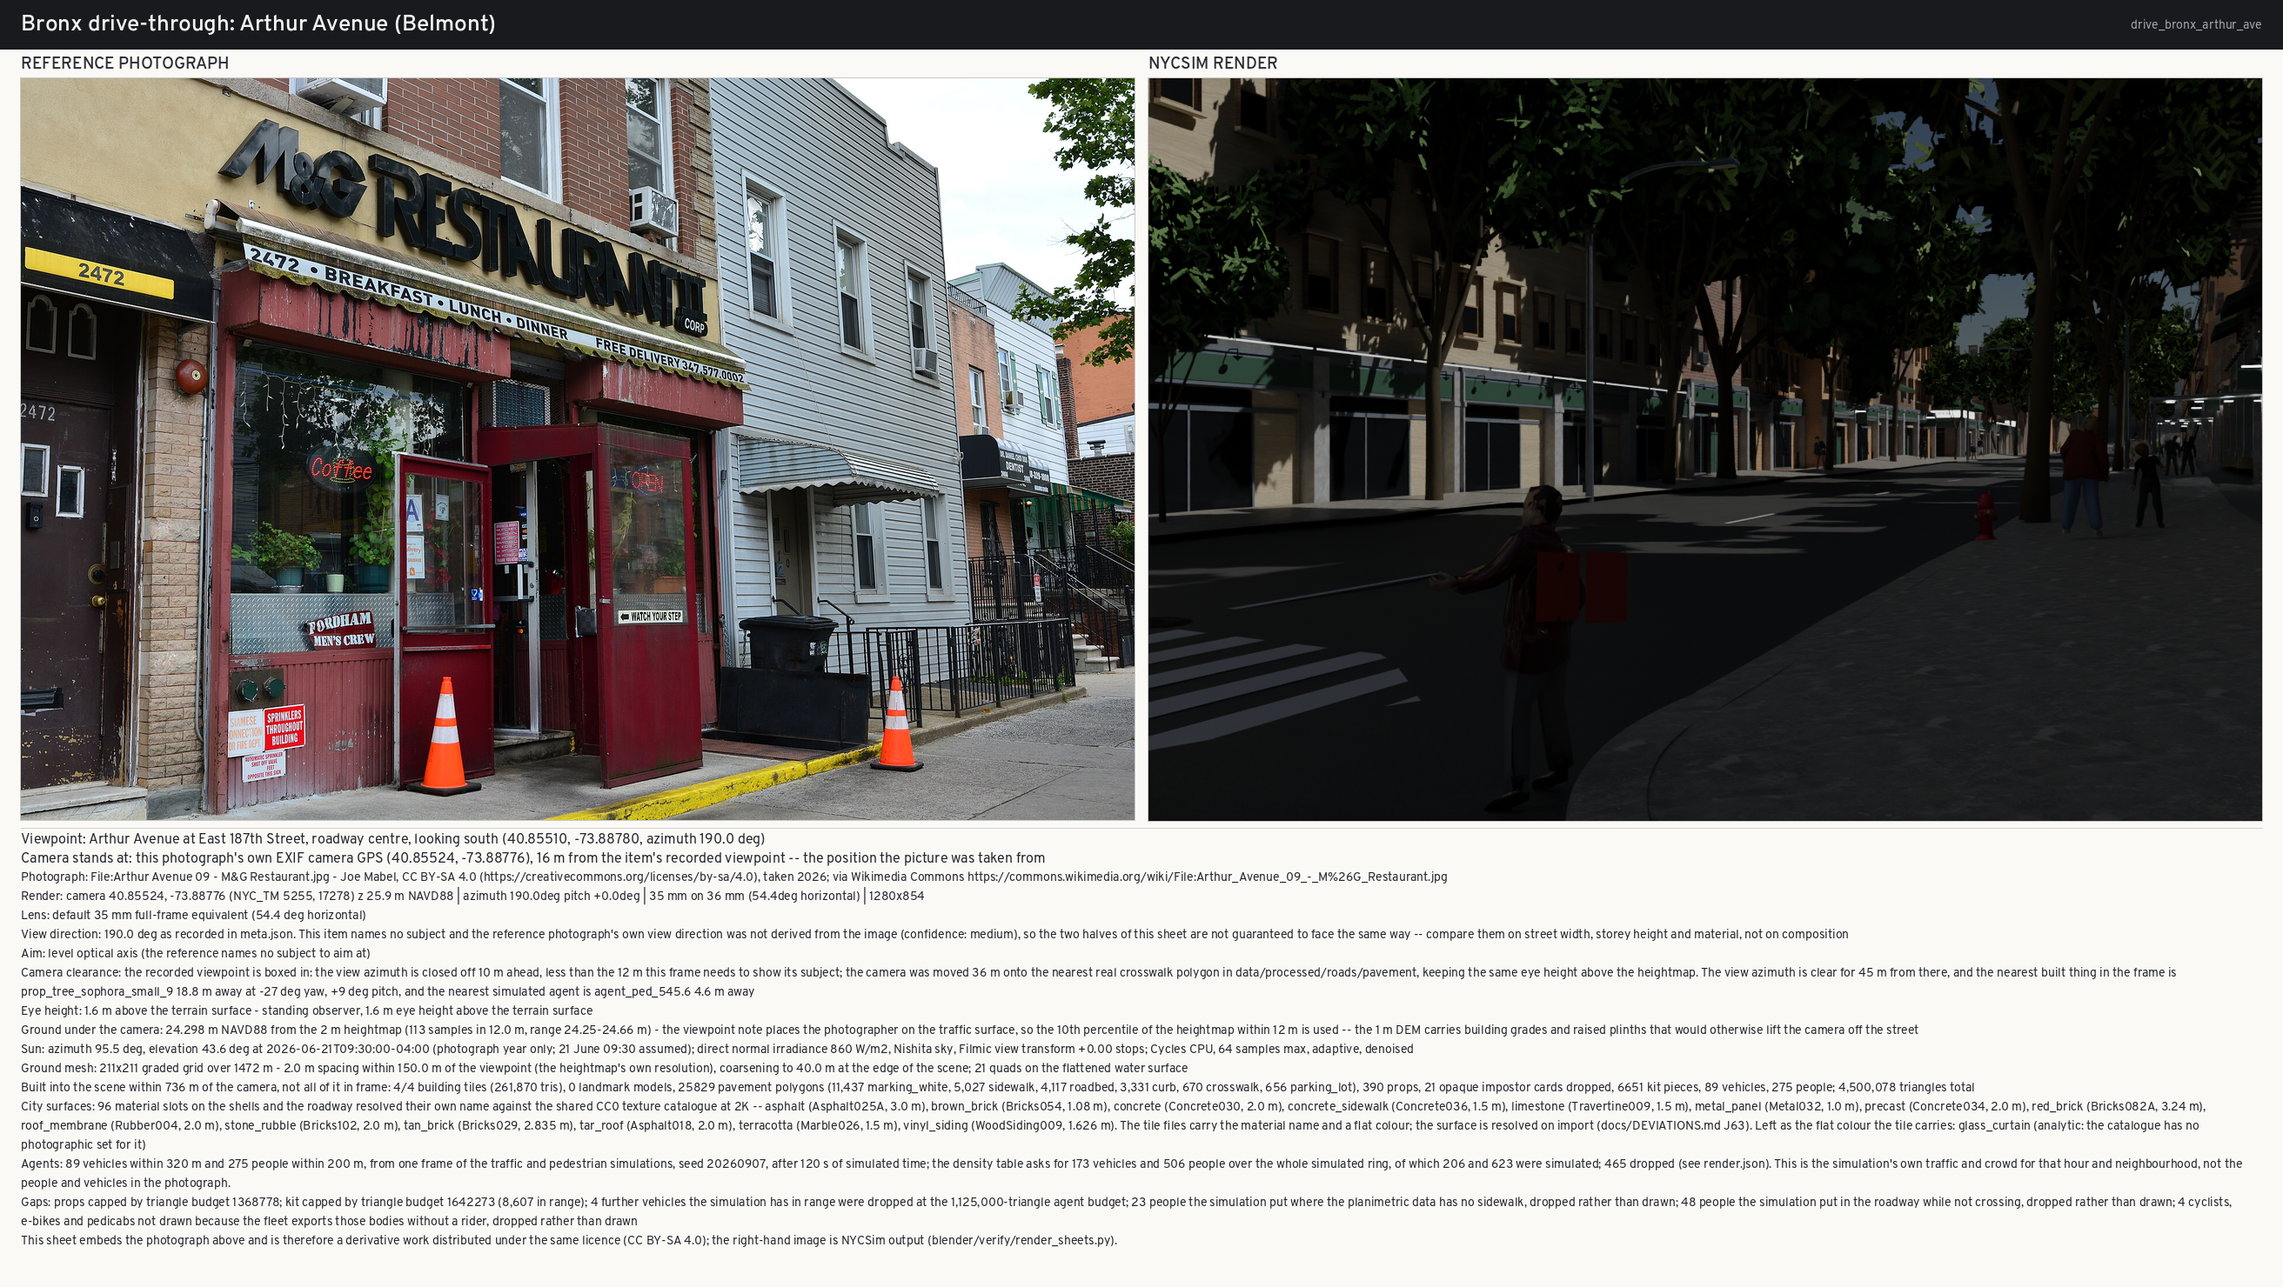
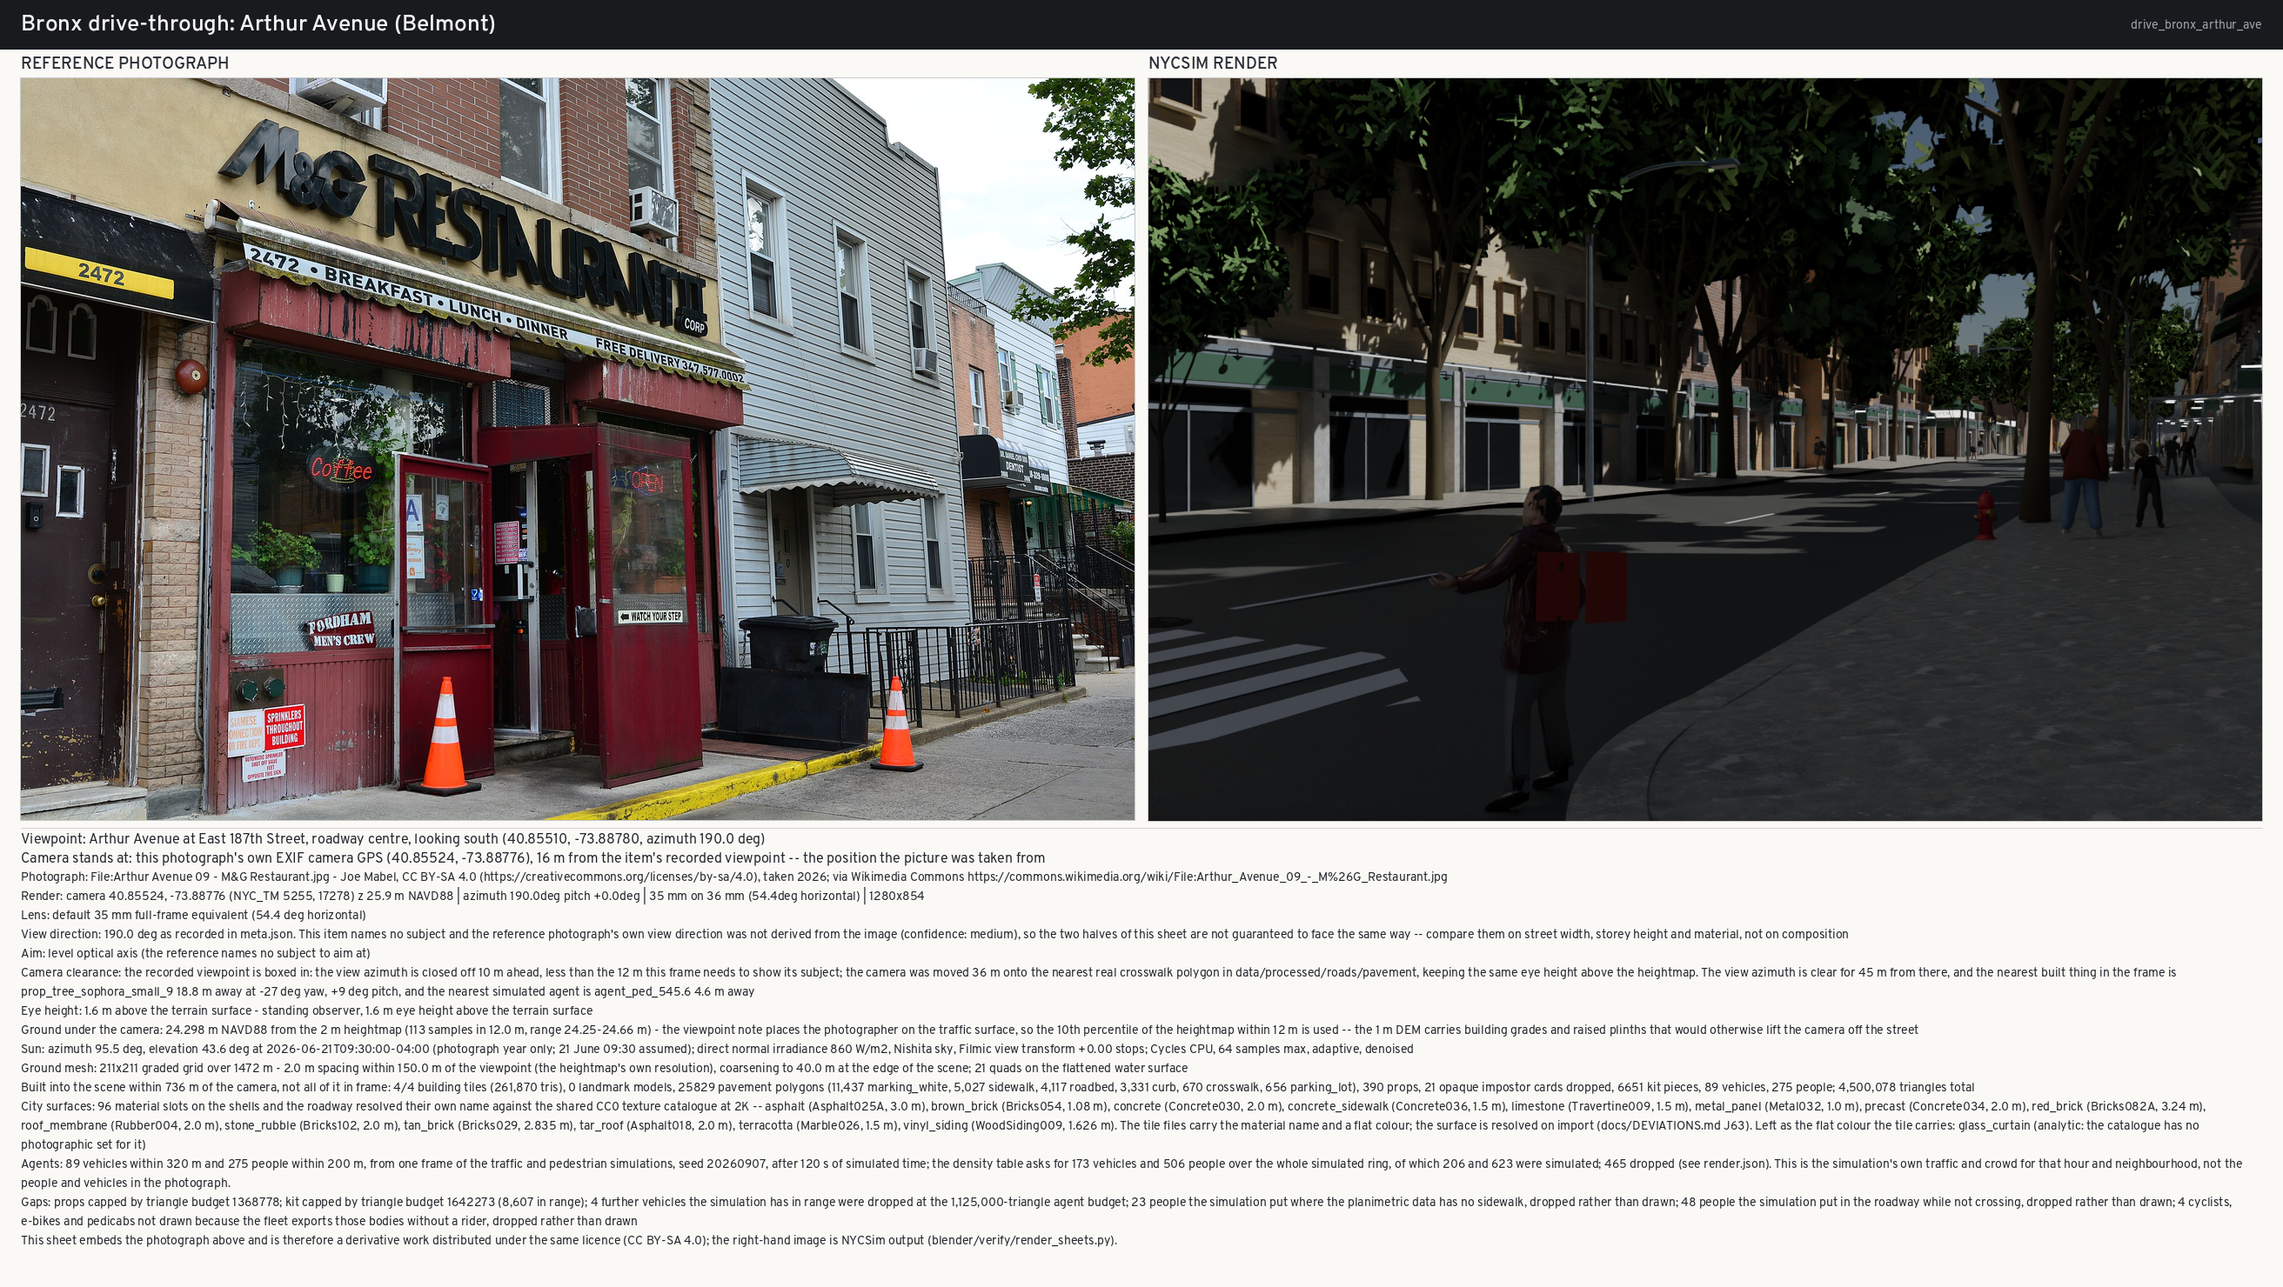
verify: Arthur Avenue rewritten against the corrected lighting
The first render of this street that has weather in it: hard-edged dappled
tree shade across the roadway and the footway, sun on the stucco above the
shopfronts, and the awning line reading as a line rather than a tone. The
same frame under the old sun-to-sky ratio was lit from every direction at
once and had no shadow anywhere in it.

The assessment separates the part of the darkness that is real from the
part that is not, rather than reporting one ratio. Mean 0.313x and 95th
percentile 0.374 against 0.875 are largely a canopy-shaded street at 09:30
against a sunlit shopfront, plus a camera's automatic exposure against a
renderer that deliberately never stops down. Chroma at 0.279x is not
explained by exposure and is called out as its own gap, with concrete and
roof_membrane named as the two surfaces sitting at the albedo cap with the
wrong material behind them.

It also corrects a fact the previous assessment had wrong: the assumed
instant, 21 June 2026, is a Sunday, and the crowd was drawn for one. The
old text called it a weekday. That is exactly the transcription error the
crowd_clock field was added to prevent, working as intended.

Claude-Session: https://claude.ai/code/session_012rCzdfEp56Z5bDvSJLVsiQ

diff --git a/docs/verification/comparison/drive_bronx_arthur_ave/assessment.md b/docs/verification/comparison/drive_bronx_arthur_ave/assessment.md
@@ -4,35 +4,40 @@
 
 **Reference** — File:Arthur Avenue 09 - M&G Restaurant.jpg by Joe Mabel, CC BY-SA 4.0 (https://creativecommons.org/licenses/by-sa/4.0), 2026, 1920x1280. [Commons page](https://commons.wikimedia.org/wiki/File:Arthur_Avenue_09_-_M%26G_Restaurant.jpg)
 
-**Camera** — 40.85524, -73.88776 (NYC_TM 5255, 17278) at z 25.9 m NAVD88 | azimuth 190.0°, pitch 0.0° | 35 mm on 36 mm (54.4° horizontal) | 1280x854. The camera stands on **this photograph's own EXIF GPS**, 15.9 m from the item's recorded viewpoint — and was then **moved 36 m onto the nearest real crosswalk polygon**, because the recorded viewpoint is boxed in: the view azimuth is closed off 10 m ahead, less than the 12 m the frame needs.
+**Camera** — 40.85524, -73.88776 (NYC_TM 5255, 17278) at z 25.9 m NAVD88 | azimuth 190.0°, pitch +0.0° | 35 mm on 36 mm (54.4° horizontal) | 1280x854. The camera stands on **this photograph's own EXIF GPS**, 15.9 m from the item's recorded viewpoint — and was then **moved 36 m onto the nearest crosswalk**, because the recorded viewpoint is boxed in: the view azimuth is closed off 10 m ahead, less than the 12 m the frame needs.
 
-**Sun** — azimuth 95.5°, elevation 43.6° at 2026-06-21T09:30−04:00. The photograph carries a **year only**, so 21 June 09:30 is assumed; this is the one input on this sheet that is a stated choice rather than a measurement.
+**Sun** — azimuth 95.5°, elevation 43.6° at 2026-06-21T09:30−04:00; 860.3 W/m² direct normal, sky at strength 0.0328, Filmic, +0.00 stops. The photograph carries a **year only**, so 21 June 09:30 is assumed — the one input on this sheet that is a stated choice rather than a measurement. That date is a **Sunday**, and the crowd was drawn for one.
 
-**In frame** — 4/4 building tiles (261,870 tris), 0 landmarks, 14,249 pavement polygons (**11,437 white marking, 403 yellow marking**, 977 curb, 551 crosswalk, 403 roadbed, 241 sidewalk, 134 parking lot, 77 median, 26 plaza), 391 props of the 984 in range, 6,691 kit pieces, **89 vehicles and 275 people**; 4,500,309 triangles. Ground mesh 88,200 triangles, 0 holes.
+**In the scene**, within 735.9 m of the camera and not all of it in frame — 4/4 building tiles (261,870 tris), 0 landmark models, 25,829 pavement polygons (11,437 white marking, 403 yellow, 5,027 sidewalk, 4,117 roadbed, 3,331 curb, 670 crosswalk, 656 parking lot, 148 median, 40 plaza), 390 props of the 984 in range, 6,651 kit pieces, 89 vehicles and 275 people; 4,500,078 triangles. Ground mesh 88,200 triangles, 0 holes.
 
-**Verdict — the fabric matches and the composition cannot: the photograph is a facade close-up of one restaurant and the render is a street view down the avenue, which the sheet says of itself. Read as a comparison of street width, storey height, shopfront rhythm and material it holds up; read as a comparison of pictures it does not, and the caption is right to forbid that.**
+## Verdict
+
+**The fabric is right and the composition cannot be, which the sheet says of itself.** The photograph is a close-up of one restaurant frontage; the render is a street view down the avenue. Read as a comparison of street width, storey height, shopfront rhythm and material it holds up well. Read as a comparison of pictures it does not, and the caption forbids that: the item names no subject and the photograph's own view direction was never derived from the image (`estimated_viewpoint.confidence` is **medium**).
+
+**This is the first render of this street that has weather in it.** Hard-edged dappled tree shade lies across the roadway and the footway, the sun catches the stucco above the shopfronts on the east side, and the awning line reads as a line rather than a tone. None of that existed before the sun-to-sky ratio was corrected (docs/DEVIATIONS.md J67) — the same frame was previously lit from every direction at once and had no shadow anywhere in it.
 
 ## What matches
 
-* **The street type is right.** Two- to four-storey party-wall blocks with a continuous glazed shopfront at ground level and residential windows above, in a regular bay rhythm, on both sides of a two-way street with kerbside parking — which is Arthur Avenue, and is what the photograph's fragment shows at close range.
-* **The shopfront band reads correctly**: continuous glazing under a projecting awning line and a signboard fascia, at roughly the same proportion of the storey as the photograph's M&G frontage. 890 storefront and 122 storefront-interior kit pieces are in the frame, out of 6,691 kit pieces.
-* **Road markings are drawn and legible.** A continental crosswalk — separate white bars with asphalt between them, not a painted slab — crosses the near roadway at the bottom of the frame. 11,437 white and 403 yellow marking polygons are in range (J52).
-* **The crowd is the simulation's own and it is dense in the right way.** 275 pedestrians and 89 vehicles are placed from one frame of the traffic and pedestrian simulations at 09:30 on a June weekday, not scattered for effect. Figures stand on the pavement, one is crossing in the foreground, and the density falls away down the street.
-* A red FDNY hydrant stands at the kerb on the right, and a cobra-head lamp standard leans over the carriageway at the upper left — the correct fixture for an ordinary Bronx street, and the one J56 confirms is still correct here (this is not a park).
-* Street trees line both kerbs in leaf, which the photograph corroborates at its top right corner.
-* Nothing was dropped for being missing: 4 of 4 building tiles, 0 LOD substitutions, 0 pavement polygons dropped, 0 holes in the ground.
+* **The street type is right.** Two- to four-storey party-wall blocks, a continuous glazed shopfront at ground level under a projecting awning line, residential windows above in a regular bay rhythm, on both sides of a two-way street with kerbside parking. That is Arthur Avenue, and it is what the photograph's fragment shows at close range.
+* **The shopfront band reads correctly** and is built rather than painted on: **888 storefront and 122 storefront-interior** kit pieces stand in the frame out of 6,651, with 3,921 windows, 690 window accessories, 191 entry doors, 147 fire escapes and 111 cornices. The fire escapes in particular are a Bronx tenement signature and they are there.
+* **The road surface is a road.** 4,117 roadbed and 3,331 curb polygons are drawn with the asphalt and concrete their own material names declare, and the kerb reads by its reveal and its shadow rather than by a lighter tone. A continental crosswalk — separate white bars with asphalt between them, not a painted slab — crosses the near roadway.
+* **Road markings are drawn and legible**: 11,437 white and 403 yellow marking polygons in range (J52).
+* **The crowd and the traffic are the simulation's own.** 275 people and 89 vehicles from one frame of the pedestrian and traffic simulations at 09:30 on a **Sunday**, not scattered for effect. The fleet is plausible for the Bronx: 49 sedans, 18 SUVs, 5 black cars, 5 yellow taxis, **4 MTA buses**, 3 box trucks, 3 vans and 2 boro taxis.
+* **The lamp standard is the right fixture.** 61 street lamps in frame, cobra-head on a curved mast, which is what an ordinary Bronx street carries and what J56 confirms is still correct here — this is not a park.
+* A red FDNY hydrant stands at the kerb; 26 are in the frame's props.
+* Nothing was dropped for being missing: 4 of 4 building tiles, 0 LOD substitutions, 0 pavement polygons dropped, 0 holes in the ground, and only one prop kind unplaced (a parks comfort station).
 
 ## What does not match
 
-* **The two halves do not face the same way, and the sheet says so.** The item names no subject, and the photograph's view direction was never derived from the image — `estimated_viewpoint.confidence` is **medium**. The render looks 190° down the avenue; the photograph looks across the pavement at a single shopfront from a few metres. Composition, framing and what fills the frame are therefore not comparable here, by construction.
-* **The camera is 36 m from where the photograph was taken**, having been moved onto the nearest crosswalk polygon because the recorded viewpoint had only 10 m of open air ahead of it. That is the correct behaviour for a usable frame and it is a second reason the two pictures are not the same view.
-* **The render is far too dark.** Frame mean luminance **0.2322**, sd 0.1715, against a photograph in open daylight. The street tree canopy closes over the carriageway and shades almost the whole frame; the photograph's own tree is a single small crown. 199 trees are placed within 266 m and the allée they form is denser than Arthur Avenue's.
-* **No vehicle is visible** in the frame although **89 are placed** within 320 m and all 89 are at LOD2. They are behind the camera or beyond the trees; a drive-through sheet that shows no traffic is not showing what the simulation is doing.
-* The facades are flat-toned and uniform where the photograph's are not: painted brick, clapboard siding, a red-painted timber shopfront, a striped fabric awning and a hand-lettered sign, all different materials within ten metres. The render's block reads as one material family with the same awning colour repeated.
-* No sign, awning text or shop name is legible, where the photograph's whole subject is a sign.
-* The foreground pedestrian's clothing shows a visible texture seam across the trousers and the shoulder.
-* **593 props in range were not placed** — the triangle budget capped at 1,376,923 — and 21 opaque impostor cards were dropped. This is the only frame element the sheet trims for cost, and it says so.
-* The Sun is placed on an assumed instant. The photograph carries a year and no month, day or time, so 21 June 09:30 was chosen; the shadow direction in this frame is therefore not evidence about anything.
+* **The two halves do not face the same way, by construction.** The item names no subject, the photograph's direction was never derived from the image, and the render looks 190° down the avenue while the photograph looks across the footway at a single shopfront from a few metres.
+* **The camera is 36 m from where the photograph was taken.** It started on the photograph's own EXIF GPS, 15.9 m from the recorded viewpoint, and was walked onto the nearest crosswalk because the recorded viewpoint had only 10 m of open air ahead of it. That is correct behaviour for a usable frame and a second reason the two pictures are not the same view.
+* **The frame is much darker than the photograph and has far less colour in it**: mean **0.1227** against **0.3920** (a ratio of **0.313**), chroma **0.0257** against **0.0921** (**0.279**), 95th percentile **0.3737** against **0.8750**. Part of that is real and part is not, and the two parts should not be confused. The render is a canopy-shaded street at 09:30 and the photograph is a sunlit shopfront; a camera's automatic exposure lifts a shaded street and this renderer deliberately never stops down. But **0.279 of the photograph's chroma is not explained by exposure** — the render's surfaces carry less colour than the street does.
+* **198 trees stand within 265.9 m and 61 of them are species-substituted**, and the canopy they form closes over the carriageway. The photograph's own tree is a single small crown. Whether Arthur Avenue's real allée is this dense is not settled by this sheet, and it is the single largest influence on the frame.
+* **594 props in range were not placed** — the triangle budget capped at 1,368,778 — and **21 opaque impostor cards were dropped**. The kit was capped too, at 1,642,273. This is the only frame element trimmed for cost and the sheet declares it.
+* **Two city surfaces are drawn with a texture that is the wrong material, not the wrong exposure**: `concrete` and `roof_membrane` bind the albedo cap, and their residuals are published in the record (J66). 14 surfaces are dressed in this frame.
+* **The facades are more uniform than the street is.** The classifier assigns one material family per block face, and per-building paint, siding and shopfront colour are in no source it reads. The photograph's ten metres carry painted brick, clapboard, a red timber shopfront, a striped fabric awning and a hand-lettered sign.
+* **No sign, awning text or shop name is legible.** The photograph's entire subject is a sign.
+* The Sun is placed on an assumed instant: the photograph carries a year and no month, day or time, so 21 June 09:30 was chosen. The shadow direction in this frame is therefore not evidence about anything — which matters more now that the shadows are visible.
 
 ## Cause of each gap
 
@@ -40,10 +45,11 @@
 |---|---|---|
 | the two halves face different ways | the item names no subject and the photograph's direction was never derived from the image (confidence medium) | reference |
 | camera 36 m from the photograph's position | the recorded viewpoint has 10 m of open air, below the 12 m the frame needs, so the camera was walked onto the nearest crosswalk | verification |
-| frame mean 0.23 against open daylight | the street-tree allée is denser than the real street's and closes the canopy over the carriageway | data |
-| no vehicle in frame despite 89 placed | they are outside this 54.4° cone; the placement is city-wide, the frame is not | verification |
-| flat, uniform facade materials | the facade classifier assigns one material family per block face; per-building paint, siding and shopfront colour are not in any source it reads | material |
-| no legible sign or awning text | shopfront signage carries real business names as geometry but at this distance and resolution none resolves | geometry |
-| texture seam on a pedestrian | the NPC bodies are exported with a single UV layout per garment and the seam falls on the visible side | geometry |
-| 593 props not placed | triangle budget 1,376,923, declared on the sheet | performance |
+| mean 0.313× and 95th percentile 0.374 against 0.875 | a canopy-shaded street at 09:30 against a sunlit shopfront, plus a camera's automatic exposure against a renderer that never stops down | reference + stated choice |
+| chroma 0.279× | not explained by exposure: the dressed surfaces carry less colour than the street, and two of them (`concrete`, `roof_membrane`) are the wrong material at the albedo cap (J66) | material |
+| 198 trees closing the canopy | the street-tree ingest places every census and OSM tree on the block; whether the real allée is this dense is not established here | data |
+| 61 of 198 trees species-substituted | no modelled species matched exactly; the nearest by size and taxon was used | data |
+| 594 props and part of the kit not placed | triangle budgets 1,368,778 and 1,642,273, declared on the sheet | performance |
+| uniform facade materials | one material family per block face; per-building paint and shopfront colour are in no source | material |
+| no legible sign or awning text | shopfront signage carries real business names as data but nothing resolves them to geometry at this distance (B15a) | geometry |
 | Sun on an assumed instant | the photograph carries a year and nothing finer | reference |
